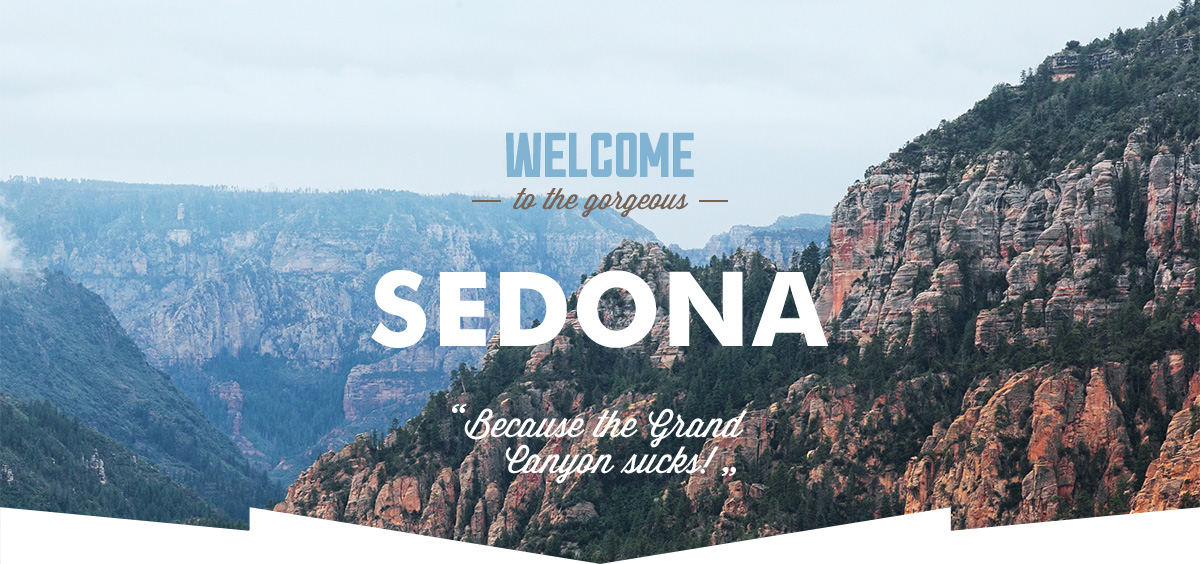
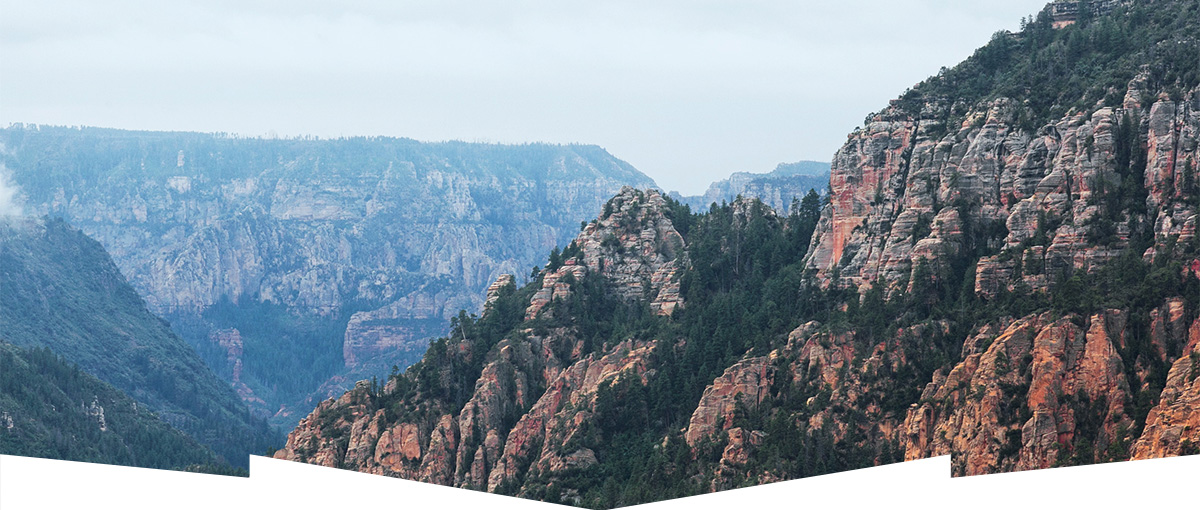
Добавила в разметку контекстаные изображения, добавила стили для бади и двух заголовков

diff --git a/index.html b/index.html
@@ -10,7 +10,7 @@
       <header class="main-header">
          <nav class="main-navigation">
             <a class="main-header-logo">
-            <img src="http://via.placeholder.com/140x70" width="140" height="70" alt="Логотип сайта-приглашения в город Седона">
+            <img src="img/logo.png" width="138" height="70" alt="Логотип сайта-приглашения в город Седона">
             </a>
             <ul class="site-navigation">
                <li><a class="site-navigation-link" href="info.html">Информация</a></li>
@@ -24,7 +24,7 @@
          <h1 class="visually-hidden">Приглашение в Седону</h1>
          <section class="greeting">
             <h2 class="visually-hidden">Добро пожаловать в Седону</h2>
-            <img src="http://via.placeholder.com/520x450" width="520" height="450" alt="Добро пожаловать в Седону">
+            <img src="img/greeting.png" width="458" height="352" alt="Добро пожаловать в Седону">
          </section>
          <section class="advantages-title">
             <h2>Седона &ndash; небольшой городок в Аризоне, заслуживающий большего!</h2>
@@ -37,7 +37,7 @@
          </section>
          <section class="real-town-advantage-image">
             <h2 class="visually-hidden">Вид города Седоны</h2>
-            <img src="http://via.placeholder.com/800x260" width="800" height="260" alt="Вид города Седоны">
+            <img src="img/real-town.jpg" width="800" height="256" alt="Вид города Седоны">
          </section>
          <section class="hotels-advantage">
             <h2>Жилье</h2>
@@ -53,7 +53,7 @@
          </section>
          <section class="devil-bridge-advantage-image">
             <h2 class="visually-hidden">Вид на мост дьявола</h2>
-            <img src="http://via.placeholder.com/800x260" width="800" height="260" alt="Вид на мост дьявола">
+            <img src="img/devil-bridge.jpg" width="800" height="256" alt="Вид на мост дьявола">
          </section>
          <section class="devil-bridge-advantage">
             <h2>Там есть мост дьявола</h2>
@@ -87,14 +87,14 @@
                  <span>Дата заезда:</span>
                  <input class="date-input" type="text" name="arrival-date" placeholder="24 апреля 2017">
                  <a class="open-calendar" href="#">
-                   <img src="http://via.placeholder.com/30x30" width="30" height="30" alt="Открыть календарь">
+                   <img src="img/calendar.svg" width="21" height="22" alt="Открыть календарь">
                  </a>
                </label>
                <label>
                  <span>Дата выезда:</span>
                  <input class="date-input" type="text" name="departure-date" placeholder="4 июля 2017">
                  <a class="open-calendar" href="#">
-                   <img src="http://via.placeholder.com/30x30" width="30" height="30" alt="Открыть календарь">
+                   <img src="img/calendar.svg" width="21" height="22" alt="Открыть календарь">
                  </a>
                </label>
                <span>Взрослые:</span>
@@ -123,7 +123,7 @@
          <p class="footer-copyright">
             <span>Website by</span>
             <a href="https://htmlacademy.ru">
-            <img src="http://via.placeholder.com/130x50" width="130" height="50" alt="HTML Academy">
+            <img src="img/logo-htmlacademy.svg" width="119" height="43" alt="HTML Academy">
             </a>
          </p>
       </footer>

diff --git a/hotels.html b/hotels.html
@@ -10,7 +10,7 @@
       <header class="main-header">
          <nav class="main-navigation">
             <a class="main-header-logo">
-            <img src="http://via.placeholder.com/140x70" width="140" height="70" alt="Логотип сайта-приглашения в город Седона">
+            <img src="img/logo.png" width="138" height="70" alt="Логотип сайта-приглашения в город Седона">
             </a>
             <ul class="site-navigation">
                <li><a class="site-navigation-link" href="info.html">Информация</a></li>
@@ -97,7 +97,7 @@
          <section class="hotels-list">
             <h2 class="visually-hidden">Список найденных отелей</h2>
             <div class="hotel-image">
-              <img src="http://via.placeholder.com/140x90" width="140" height="90" alt="Фото отеля Amara Resort & Spa">
+              <img src="img/amara-hotel.jpg" width="135" height="90" alt="Фото отеля Amara Resort & Spa">
             </div>
             <div class="hotel-description">
               <h3 class="hotel-name">Amara Resort & Spa</h3>
@@ -114,7 +114,7 @@
               <p>Рейтинг: 8,5</p>
             </div>
             <div class="hotel-image">
-              <img src="http://via.placeholder.com/140x90" width="140" height="90" alt="Фото отеля Amara Resort & Spa">
+              <img src="img/desert-hotel.jpg" width="135" height="90" alt="Фото отеля Amara Resort & Spa">
             </div>
             <div class="hotel-description">
               <h3 class="hotel-name">Desert Quail Inn</h3>
@@ -131,7 +131,7 @@
               <p>Рейтинг: 8,9</p>
             </div>
             <div class="hotel-image">
-              <img src="http://via.placeholder.com/140x90" width="140" height="90" alt="Фото отеля Amara Resort & Spa">
+              <img src="img/villas-hotel.jpg" width="135" height="90" alt="Фото отеля Amara Resort & Spa">
             </div>
             <div class="hotel-description">
               <h3 class="hotel-name">Villas At Poco Diablo</h3>
@@ -159,7 +159,7 @@
          <p class="footer-copyright">
             <span>Website by</span>
             <a href="https://htmlacademy.ru">
-            <img src="http://via.placeholder.com/130x50" width="130" height="50" alt="HTML Academy">
+            <img src="img/logo-htmlacademy.svg" width="119" height="43" alt="HTML Academy">
             </a>
          </p>
       </footer>

diff --git a/css/styles.css b/css/styles.css
@@ -1,0 +1,16 @@
+body {
+  font: 14px 'PT Sans', sans-serif;
+  line-height: 26px;
+  color: #000;
+}
+h2 {
+  font-weight: bold;
+}
+.advantages-title h2 {
+  font-size: 21px;
+}
+.real-town-advantage h2 {
+  font-size: 19px;
+  line-height: 21px;
+  color: #fff;
+}
